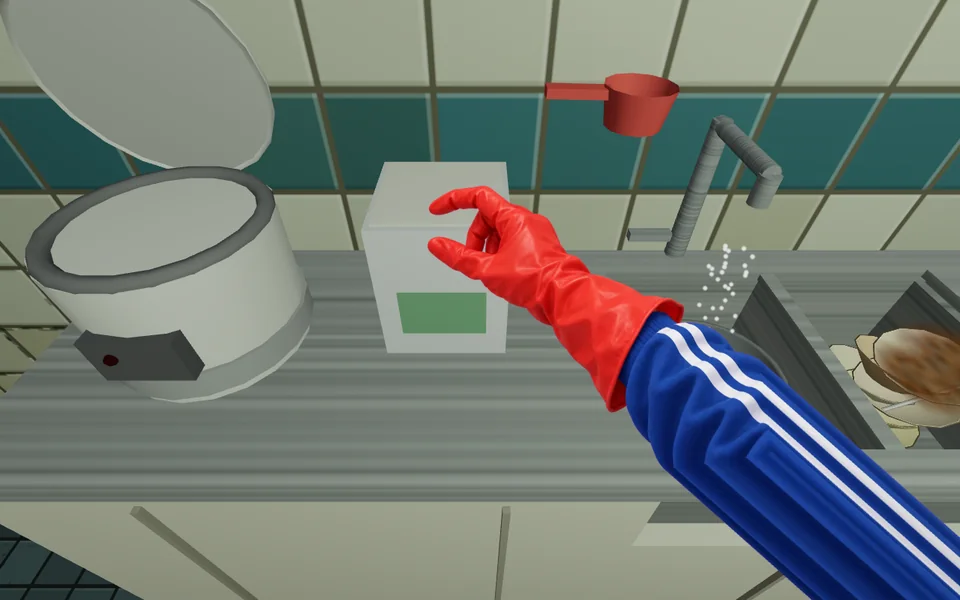
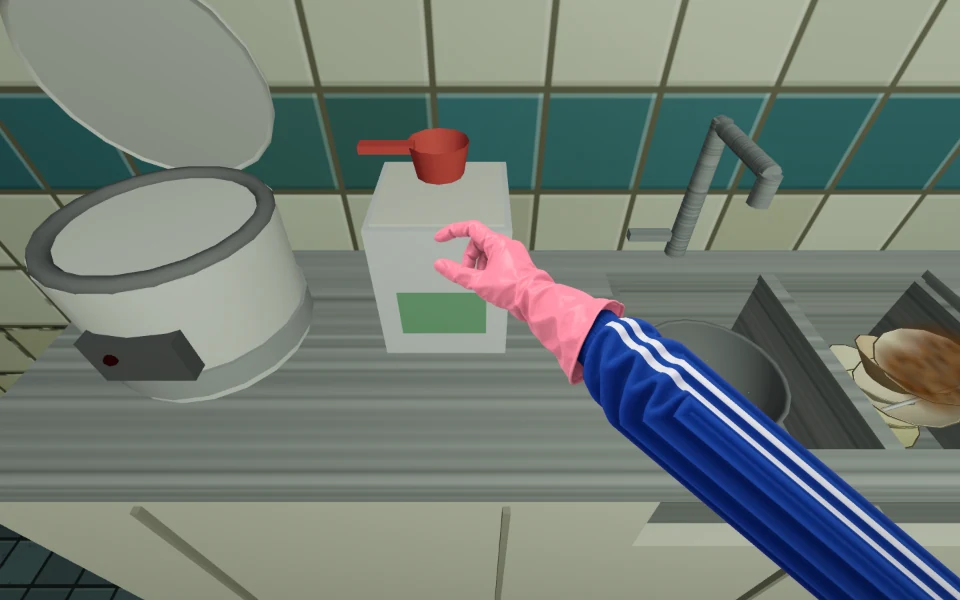
고시원 총무: og 한·영과 소개 사진 1·3번을 분홍 고무장갑으로 새로 찍어 교체(?v=2) (사장님 10/5 "그것도 핑크 장갑으로 새로 찍어서 올려")

Changed region(s): [[0.375, 0.21, 1.0, 1.0], [0.5625, 0.12, 0.7188, 0.24], [0.7188, 0.39, 0.7812, 0.51]]

diff --git a/games/gosiwon/index.html b/games/gosiwon/index.html
@@ -23,7 +23,7 @@
 <meta property="og:title" content="고시원 총무게임 무료 — 설치 없는 무료게임, 인디게임 3D 청소게임">
 <meta property="og:description" content="빨간 고무장갑을 끼고 고시원 화장실과 주방을 청소하고, 남는 시간에 공부해 30일 뒤 합격을 노리는 1인칭 3D 청소게임입니다. 오름게임즈가 만든 인디게임으로, 설치 없이 브라우저에서 바로 하는 무료게임입니다. 쪽지와 원장 문자로 민원이 날아오는 시뮬레이션 웹게임.">
 <meta property="og:url" content="https://oreumgames.com/games/gosiwon/">
-<meta property="og:image" content="https://oreumgames.com/assets/gosiwon-og.webp?v=1">
+<meta property="og:image" content="https://oreumgames.com/assets/gosiwon-og.webp?v=2">
 <meta property="og:image:width" content="1200">
 <meta property="og:image:height" content="630">
 <meta property="og:locale" content="ko_KR">
@@ -48,7 +48,7 @@
     "고시원 총무게임"
   ],
   "url": "https://oreumgames.com/games/gosiwon/",
-  "image": "https://oreumgames.com/assets/gosiwon-og.webp?v=1",
+  "image": "https://oreumgames.com/assets/gosiwon-og.webp?v=2",
   "description": "고시원 총무가 되어 30일 동안 아침 8시부터 밤 12시까지 일하는 1인칭 3D 게임. 빨간 고무장갑을 끼고 2층부터 5층까지 남녀 화장실의 때를 문질러 닦고, 꽁초와 휴지통과 막힌 변기와 휴지를 처리하고, 전기밥솥 밥과 주방 청소와 라면 채우기와 김치 썰기를 한다. 일을 다 끝내면 책상에서 헌법 책으로 공부하는데 방치형(실제 20분)이거나 책장을 넘겨 1시간씩 보낸다. 합격 가능성은 50%에서 시작해 하루마다 1 + (공부 시간 - 8)만큼 바뀌고, 자정까지 일을 못 끝내면 -7. 쪽지와 원장 문자로 민원 이벤트 12개, 7일마다 원장 점검. 일당 15,000원으로 도구 11가지를 산다. 30일째 80% 이상이면 합격.",
   "genre": [
     "Simulation",
@@ -171,7 +171,7 @@
       <p class="gp-cta"><a class="btn btn-primary" href="play/?v=20261004">🎮 바로 플레이</a></p>
       <p class="gp-line">고시원 총무는 총무가 되어 화장실과 주방을 청소하고, 남는 시간에 공부해 30일 뒤 합격을 노리는 1인칭 3D 무료 웹게임입니다. 설치 없이 브라우저에서 바로 시작합니다.</p>
       <p class="gp-body">아침 8시, 삼각형 쪽방에서 알람이 울립니다. 문에 걸린 빨간 고무장갑을 끼면 하루가 시작됩니다. 2층부터 5층까지 층마다 남녀 화장실이 있고, 바닥과 변기와 세면대와 벽의 때는 눌러서 문질러야 지워집니다. 가만히 누르고만 있으면 안 지워집니다. 꽁초를 줍고, 휴지통을 비우고, 막힌 변기를 뚫고, 빈 걸이에 휴지를 건 다음 대야 물을 끼얹으면 CLEAN 입니다.</p>
-      <div class="gp-pics"><img src="/assets/gosiwon-3.webp?v=1" alt="고시원 여자 화장실 칸 안의 막힌 변기와 바닥 때 앞에서 빨간 고무장갑을 낀 손이 수세미를 들고 있다" width="960" height="600" loading="lazy"><img src="/assets/gosiwon-1.webp?v=1" alt="공용주방 작업대에서 빨간 고무장갑을 낀 손이 쌀통에서 쌀을 퍼 솥에 붓고 있고 옆에 전기밥솥이 열려 있다" width="960" height="600" loading="lazy"></div>
+      <div class="gp-pics"><img src="/assets/gosiwon-3.webp?v=2" alt="고시원 여자 화장실 칸 안의 막힌 변기와 바닥 때 앞에서 빨간 고무장갑을 낀 손이 수세미를 들고 있다" width="960" height="600" loading="lazy"><img src="/assets/gosiwon-1.webp?v=2" alt="공용주방 작업대에서 빨간 고무장갑을 낀 손이 쌀통에서 쌀을 퍼 솥에 붓고 있고 옆에 전기밥솥이 열려 있다" width="960" height="600" loading="lazy"></div>
       <p class="gp-body">공용주방에서는 전기밥솥에 밥을 합니다. 쌀은 초록 눈금, 물은 파란 눈금에 맞추면 PERFECT 와 1,000원을 받습니다. 사흘마다 창고에서 라면 상자를 들고 와 선반을 채우고, 김치 택배가 오면 테이프를 뜯고 비닐 매듭을 풀고 포기를 칼로 썰어 통에 담아 냉장고에 넣습니다.</p>
       <div class="gp-tablewrap"><table class="gp-table"><thead><tr><th>날마다 하는 일</th><th>언제부터</th></tr></thead><tbody><tr><td>밥</td><td>매일</td></tr><tr><td>화장실</td><td>1일차 2층, 4일차부터 3층, 9일차부터 4층, 15일차부터 5층</td></tr><tr><td>주방 청소</td><td>2일차부터</td></tr><tr><td>라면 채우기</td><td>3일마다</td></tr><tr><td>김치</td><td>5, 12, 19, 26일차</td></tr></tbody></table></div>
       <p class="gp-body">일을 다 끝내고 고무장갑을 벗어 문에 걸어야 책상에 앉을 수 있습니다. 공부는 방치형입니다. 책상에 앉혀 두면 창을 닫아도 실제 20분이 지나 다음 날이 되고, 기다리기 싫으면 책장을 넘깁니다. 책장 한 장이 게임 시간 1시간입니다. 책은 대한민국헌법 전문부터 부칙까지 그대로 실려 있습니다.</p>

diff --git a/en/games/gosiwon/index.html b/en/games/gosiwon/index.html
@@ -23,7 +23,7 @@
 <meta property="og:title" content="Gosiwon Manager — Free 3D First-Person Cleaning Simulation Game, Indie Game">
 <meta property="og:description" content="Put on red rubber gloves, scrub the restrooms and kitchen of a Korean study dorm, and study in your free time to pass an exam in 30 days. A free first-person 3D cleaning simulation indie game by Oreum Games that runs in your browser with no download.">
 <meta property="og:url" content="https://oreumgames.com/en/games/gosiwon/">
-<meta property="og:image" content="https://oreumgames.com/assets/gosiwon-og-en.webp?v=1">
+<meta property="og:image" content="https://oreumgames.com/assets/gosiwon-og-en.webp?v=2">
 <meta property="og:image:width" content="1200">
 <meta property="og:image:height" content="630">
 <meta property="og:locale" content="en_US">
@@ -48,7 +48,7 @@
     "GOSIWON MANAGER"
   ],
   "url": "https://oreumgames.com/en/games/gosiwon/",
-  "image": "https://oreumgames.com/assets/gosiwon-og-en.webp?v=1",
+  "image": "https://oreumgames.com/assets/gosiwon-og-en.webp?v=2",
   "description": "A first-person 3D game where you are the live-in manager of a Korean study dorm (gosiwon) for 30 days, working from 8 AM to midnight. Wear red rubber gloves to rub grime off the men's and women's restrooms from 2F to 5F, deal with cigarette butts, trash, clogged toilets and toilet paper, cook rice, clean the kitchen, restock ramen and slice kimchi. After the work you study a constitution book at your desk, idle for 20 real minutes or by turning pages one hour at a time. The pass chance starts at 50% and changes by 1 + (study hours - 8) each day, -7 if work is unfinished at midnight. Twelve note and text events from residents and the boss, plus a boss check every 7 days. A 15,000 won daily wage buys 11 tools. Pass with 80% on day 30.",
   "genre": [
     "Simulation",
@@ -171,7 +171,7 @@
       <p class="gp-cta"><a class="btn btn-primary" href="/games/gosiwon/play/?lang=en&amp;v=20261004">🎮 Play now</a></p>
       <p class="gp-line">Gosiwon Manager is a free first-person 3D game where you clean the restrooms and kitchen of a Korean study dorm and study in your free time to pass an exam in 30 days. No download, it starts right in your browser.</p>
       <p class="gp-body">A gosiwon is a cheap dorm of tiny rooms where people live while they study for exams. You are its live-in manager. At 8 AM the alarm rings in your triangle-shaped room and you put on the red rubber gloves hanging on the door. Every floor from 2F to 5F has a men&#x27;s and a women&#x27;s restroom, and the grime on floors, toilets, sinks and walls only comes off when you press and rub it. Holding still does nothing. Pick up cigarette butts, empty the trash, plunge clogged toilets, hang toilet paper on empty holders, then splash a bucket of water for CLEAN.</p>
-      <div class="gp-pics"><img src="/assets/gosiwon-3.webp?v=1" alt="A red rubber-gloved hand holding a sponge in front of a clogged toilet and floor stains inside a restroom stall" width="960" height="600" loading="lazy"><img src="/assets/gosiwon-1.webp?v=1" alt="A red rubber-gloved hand scooping rice from a bin into a pot on the shared kitchen counter next to an open rice cooker" width="960" height="600" loading="lazy"></div>
+      <div class="gp-pics"><img src="/assets/gosiwon-3.webp?v=2" alt="A red rubber-gloved hand holding a sponge in front of a clogged toilet and floor stains inside a restroom stall" width="960" height="600" loading="lazy"><img src="/assets/gosiwon-1.webp?v=2" alt="A red rubber-gloved hand scooping rice from a bin into a pot on the shared kitchen counter next to an open rice cooker" width="960" height="600" loading="lazy"></div>
       <p class="gp-body">In the shared kitchen you cook rice in an electric rice cooker. Fill rice to the green line and water to the blue line for PERFECT and 1,000 won. Every three days you carry a ramen box from storage to restock the shelf, and when kimchi arrives you rip the tape, untie the bag, slice the cabbages with a knife, pack them in a tub and put it in the fridge.</p>
       <div class="gp-tablewrap"><table class="gp-table"><thead><tr><th>Daily work</th><th>Starts</th></tr></thead><tbody><tr><td>Rice</td><td>every day</td></tr><tr><td>Restrooms</td><td>day 1 on 2F, 3F from day 4, 4F from day 9, 5F from day 15</td></tr><tr><td>Kitchen cleaning</td><td>from day 2</td></tr><tr><td>Ramen restock</td><td>every 3 days</td></tr><tr><td>Kimchi</td><td>days 5, 12, 19, 26</td></tr></tbody></table></div>
       <p class="gp-body">You can only sit at your desk after all the work is done and the gloves are back on the door. Studying is idle. Leave yourself at the desk and the next day starts after 20 real minutes, even with the tab closed, or turn the pages yourself. One page is one hour of game time. The book is the full text of the Constitution of the Republic of Korea.</p>
